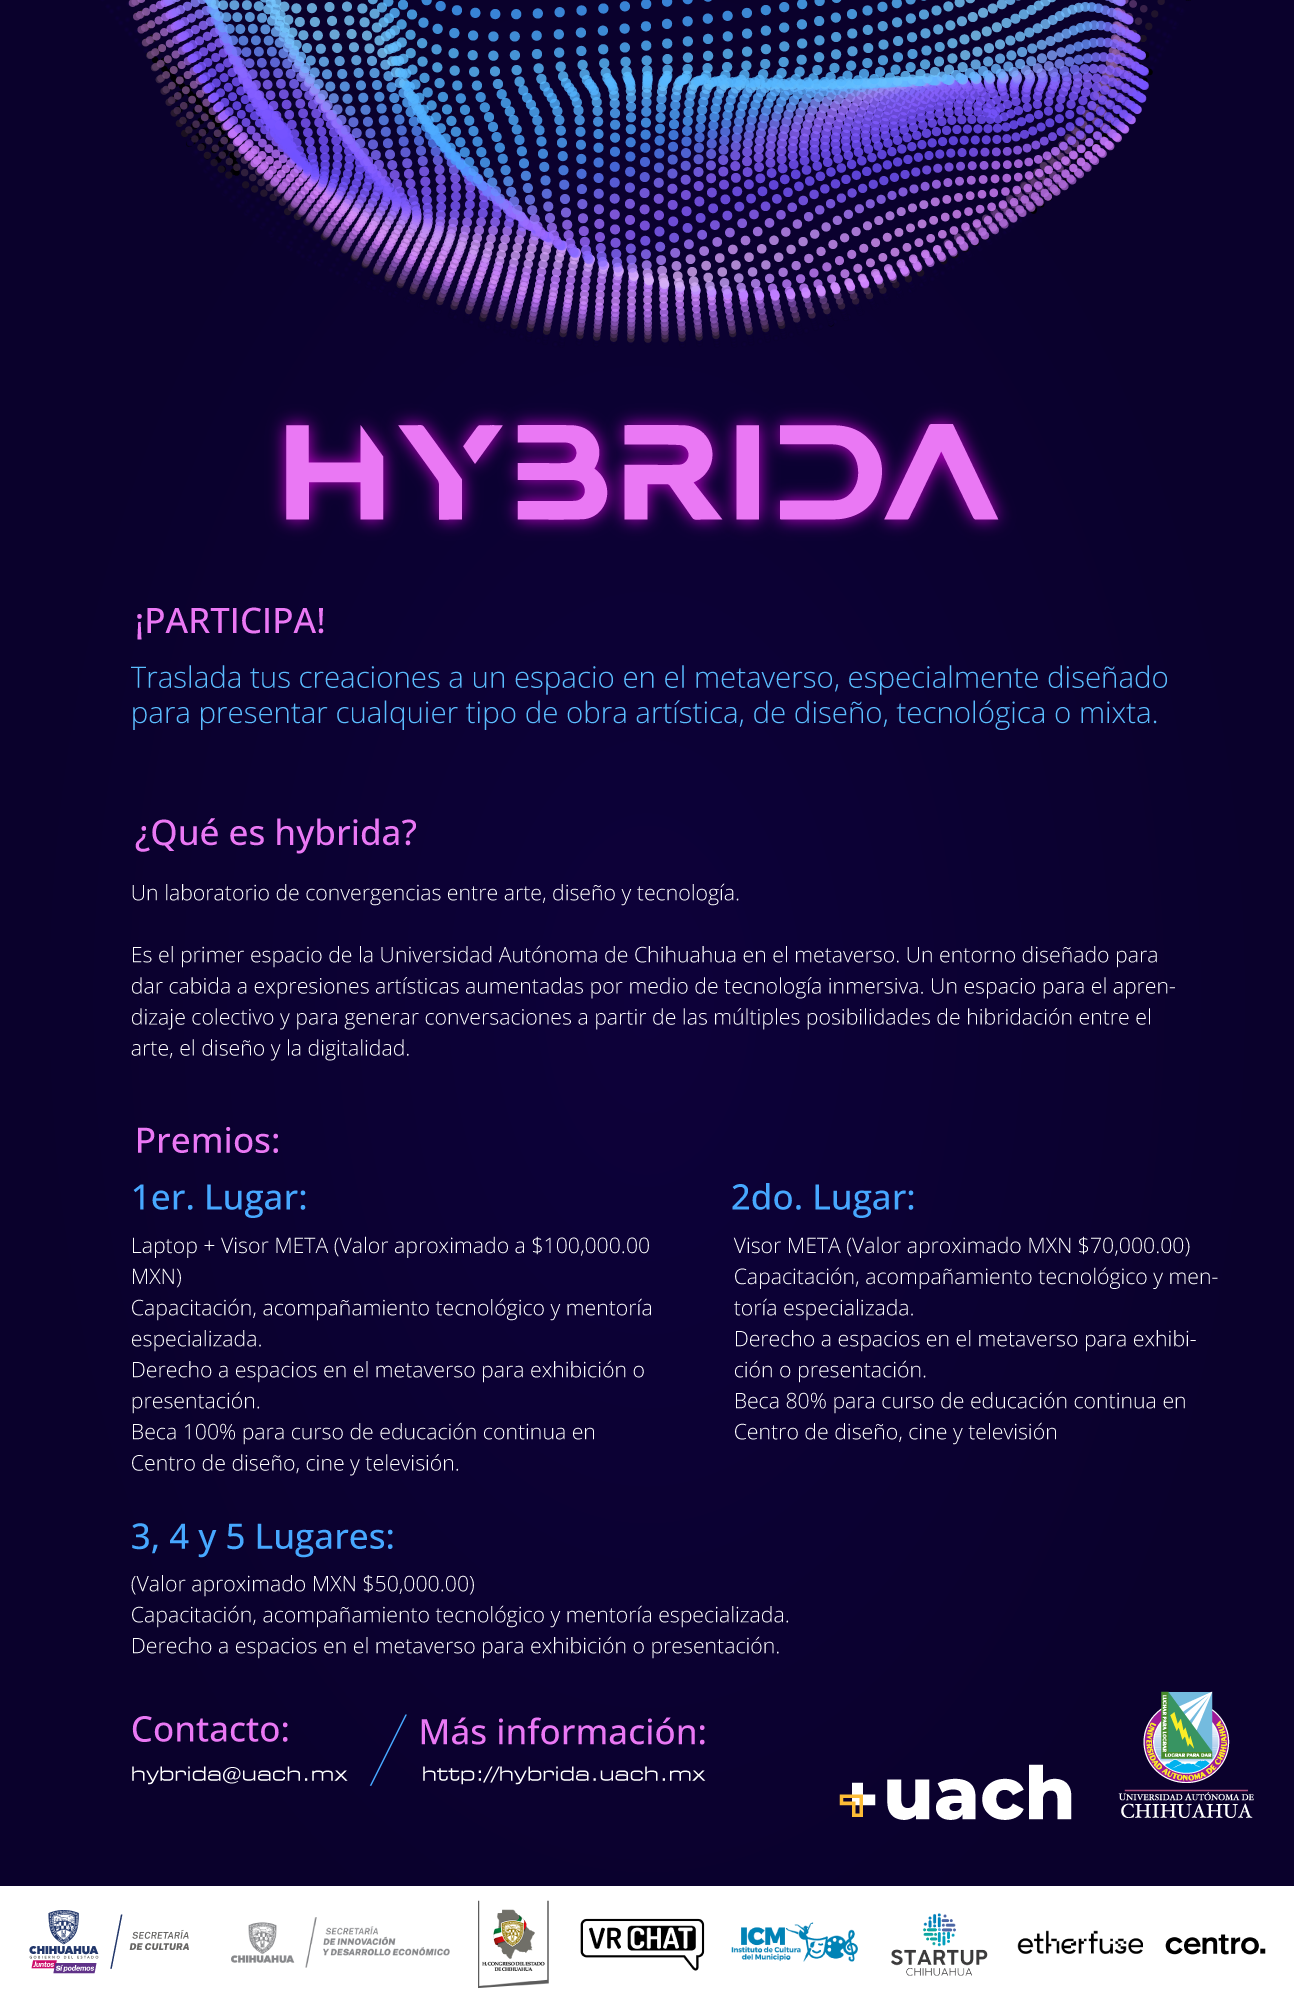
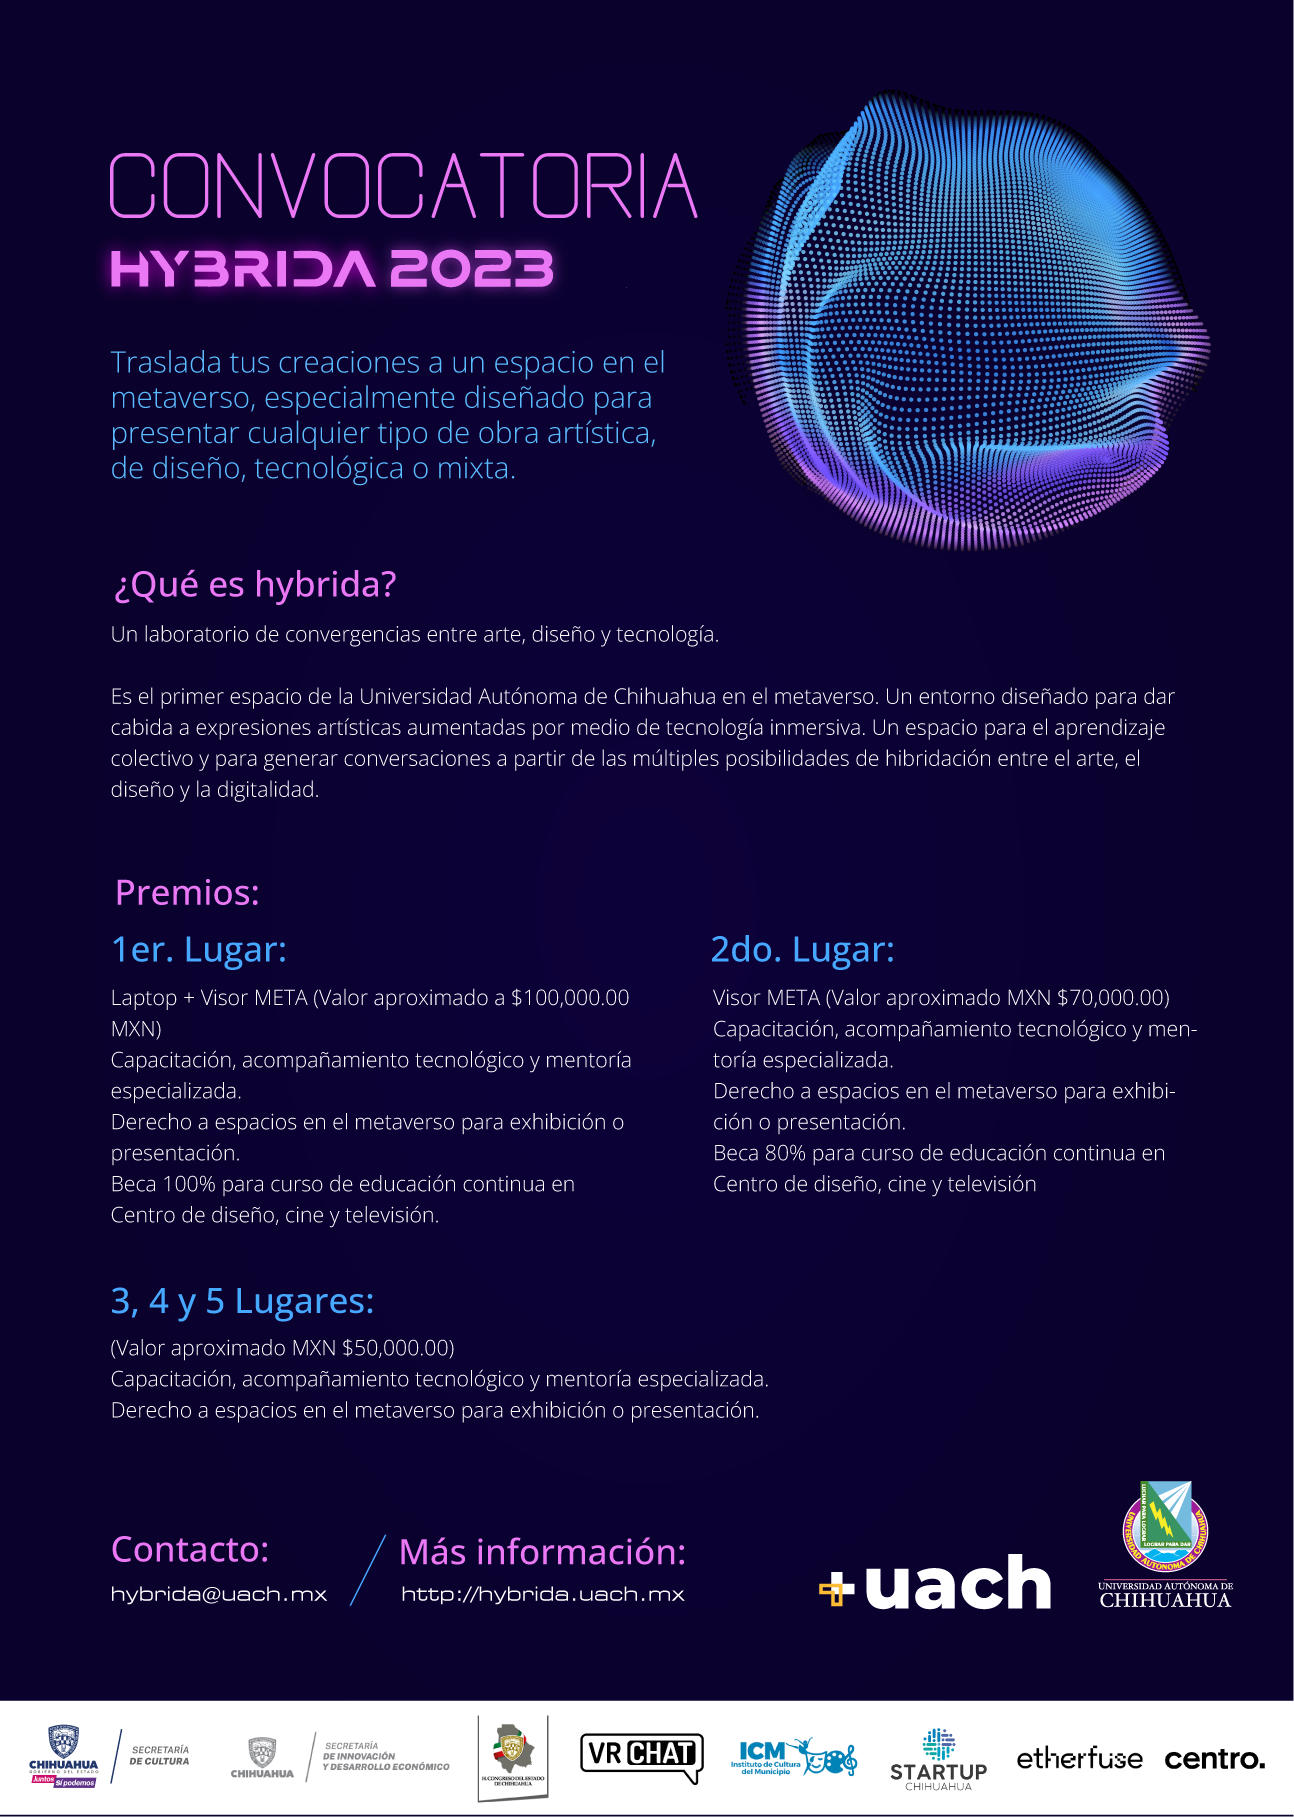
Cambio de el poster de convocatoria, cambio en botones landing, cambio en registro

diff --git a/pages/index.js b/pages/index.js
@@ -13,13 +13,6 @@ export default function Hero() {
             ></script>
             <div className="relative bg-[#0a012c]">
                 <main className="flex flex-col  relative">
-                    <div className="flex relative absolute h-full w-full mt-6 md:mt-0 justify-center">
-                        <img
-                            className="absolute relative  h-full w-full md:h-2/3 md:w-2/3  "
-                            src="images/convocatoria_hybrida.png"
-                            alt=""
-                        />
-                    </div>
                     <div className="mx-auto w-full max-w-7xl pt-16 pb-20 text-center lg:py-32 lg:text-left">
                         <div className="px-4 sm:px-8 lg:w-full ">
                             <h1 className="text-4xl font-bold tracking-tight text-white-900 sm:text-5xl md:text-6xl">
@@ -37,12 +30,12 @@ export default function Hero() {
                             <div className="mt-10 sm:flex sm:justify-center lg:justify-start">
                                 <div className="rounded-md shadow">
                                     <a
-                                        href="https://discord.gg/6g7rZTsaCP"
+                                        href="/contact"
                                         className="flex w-full items-center justify-center rounded-md border border-transparent bg-pink-500 px-8 py-3 text-base font-medium text-white hover:bg-pink-700 md:py-4 md:px-10 md:text-lg"
                                     >
                                         {" "}
-                                        <span>¡Únete a la comunidad!  </span>
-                                        <svg
+                                        <span>¡Registrate Ahora!  </span>
+                                        {/* <svg
                                             xmlns="http://www.w3.org/2000/svg"
                                             width="25"
                                             height="25"
@@ -51,7 +44,7 @@ export default function Hero() {
                                             viewBox="0 0 16 16"
                                         >
                                             <path d="M13.545 2.907a13.227 13.227 0 0 0-3.257-1.011.05.05 0 0 0-.052.025c-.141.25-.297.577-.406.833a12.19 12.19 0 0 0-3.658 0 8.258 8.258 0 0 0-.412-.833.051.051 0 0 0-.052-.025c-1.125.194-2.22.534-3.257 1.011a.041.041 0 0 0-.021.018C.356 6.024-.213 9.047.066 12.032c.001.014.01.028.021.037a13.276 13.276 0 0 0 3.995 2.02.05.05 0 0 0 .056-.019c.308-.42.582-.863.818-1.329a.05.05 0 0 0-.01-.059.051.051 0 0 0-.018-.011 8.875 8.875 0 0 1-1.248-.595.05.05 0 0 1-.02-.066.051.051 0 0 1 .015-.019c.084-.063.168-.129.248-.195a.05.05 0 0 1 .051-.007c2.619 1.196 5.454 1.196 8.041 0a.052.052 0 0 1 .053.007c.08.066.164.132.248.195a.051.051 0 0 1-.004.085 8.254 8.254 0 0 1-1.249.594.05.05 0 0 0-.03.03.052.052 0 0 0 .003.041c.24.465.515.909.817 1.329a.05.05 0 0 0 .056.019 13.235 13.235 0 0 0 4.001-2.02.049.049 0 0 0 .021-.037c.334-3.451-.559-6.449-2.366-9.106a.034.034 0 0 0-.02-.019Zm-8.198 7.307c-.789 0-1.438-.724-1.438-1.612 0-.889.637-1.613 1.438-1.613.807 0 1.45.73 1.438 1.613 0 .888-.637 1.612-1.438 1.612Zm5.316 0c-.788 0-1.438-.724-1.438-1.612 0-.889.637-1.613 1.438-1.613.807 0 1.451.73 1.438 1.613 0 .888-.631 1.612-1.438 1.612Z" />
-                                        </svg>
+                                        </svg> */}
                                     </a>
                                 </div>
                                 <div className="mt-3 rounded-md shadow sm:mt-0 sm:ml-3">
@@ -59,11 +52,18 @@ export default function Hero() {
                                         href="/contact"
                                         className="flex w-full items-center justify-center rounded-md border border-transparent bg-white px-8 py-3 text-base font-medium text-pink-500 hover:bg-gray-100 md:py-4 md:px-10 md:text-lg"
                                     >
-                                        ¿Cómo me uno?
+                                        ¿Que es Hybrida?
                                     </a>
                                 </div>
                             </div>
                         </div>
+                    </div>
+                    <div className="flex relative absolute h-full w-full mt-6 md:mt-0 justify-center">
+                        <img
+                            className="absolute relative  h-full w-full md:h-2/3 md:w-2/3  "
+                            src="images/convocatoria_hybrida.png"
+                            alt=""
+                        />
                     </div>
                 </main>
             </div>

diff --git a/pages/contact.js b/pages/contact.js
@@ -97,12 +97,11 @@ const ContactPage = () => {
                     </svg>
                     <div className="text-center">
                         <h2 className="text-3xl font-extrabold tracking-tight text-gray-900 sm:text-4xl">
-                            Unete a nuestra comunidad
+                            Registro a la Convocatoria Hybrida 2023
                         </h2>
                         <p className="mt-4 text-lg leading-6 text-gray-500">
-                            Si te interesa formar parte de la comunidad de
-                            artistas de Hybrida, enviarnos un mensaje y nos
-                            pondremos en contacto contigo.
+                            Participa en la convocatoria Hybrida 2023 y
+                            conviértete en un agente de evolucion para el arte.
                         </p>
                     </div>
                     <div className="mt-12">
